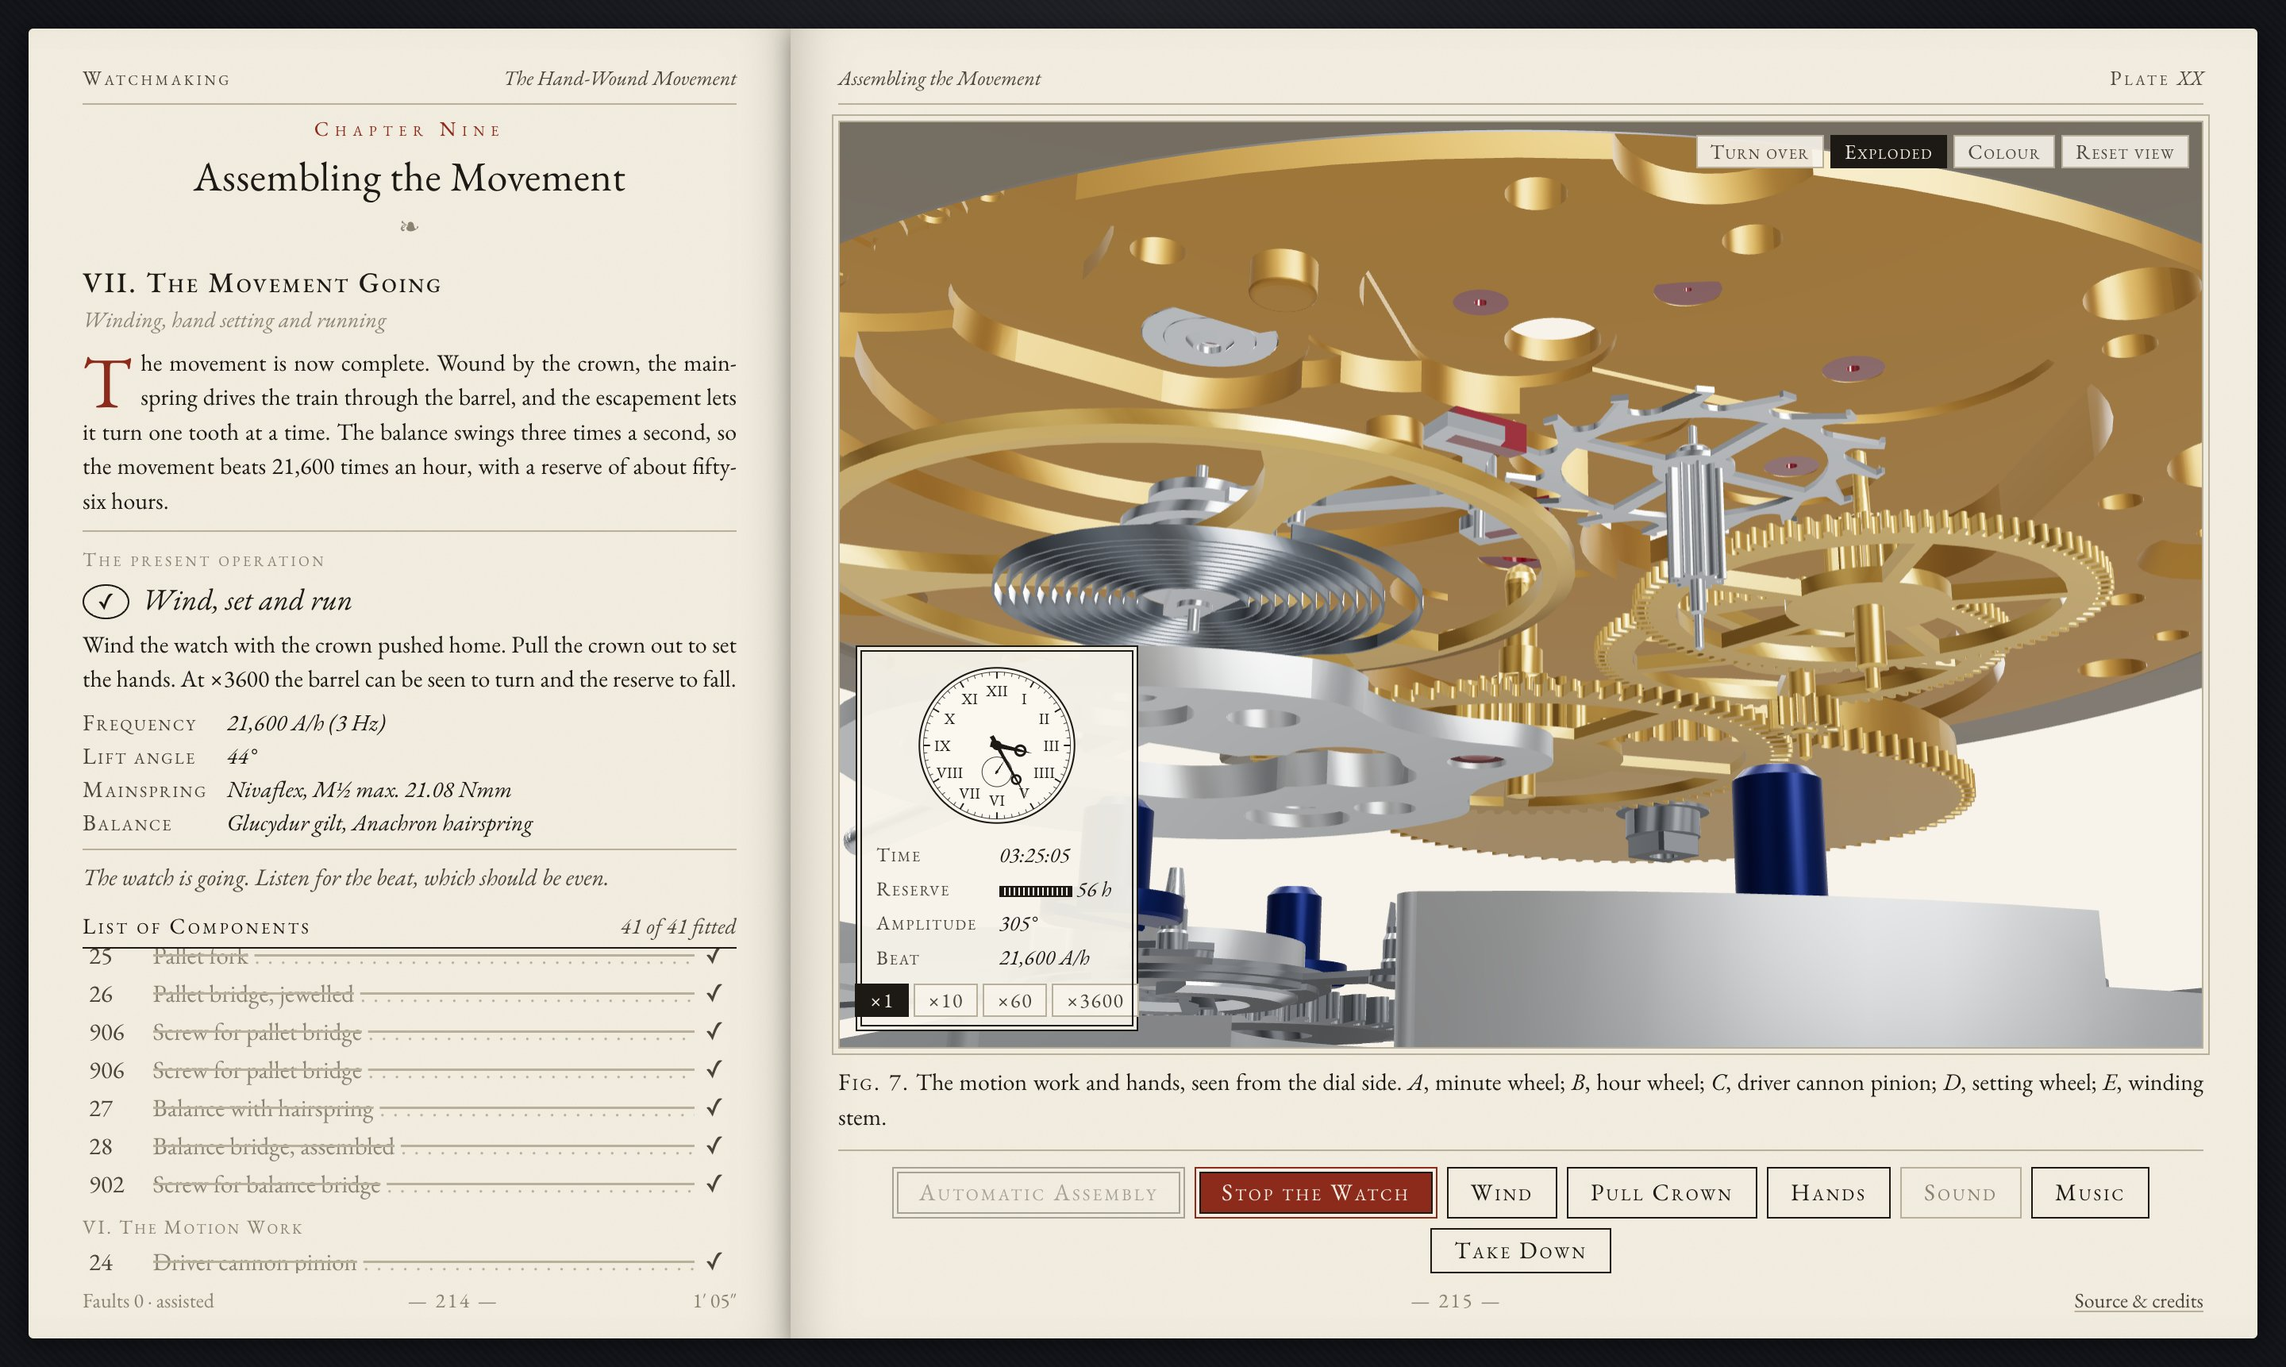
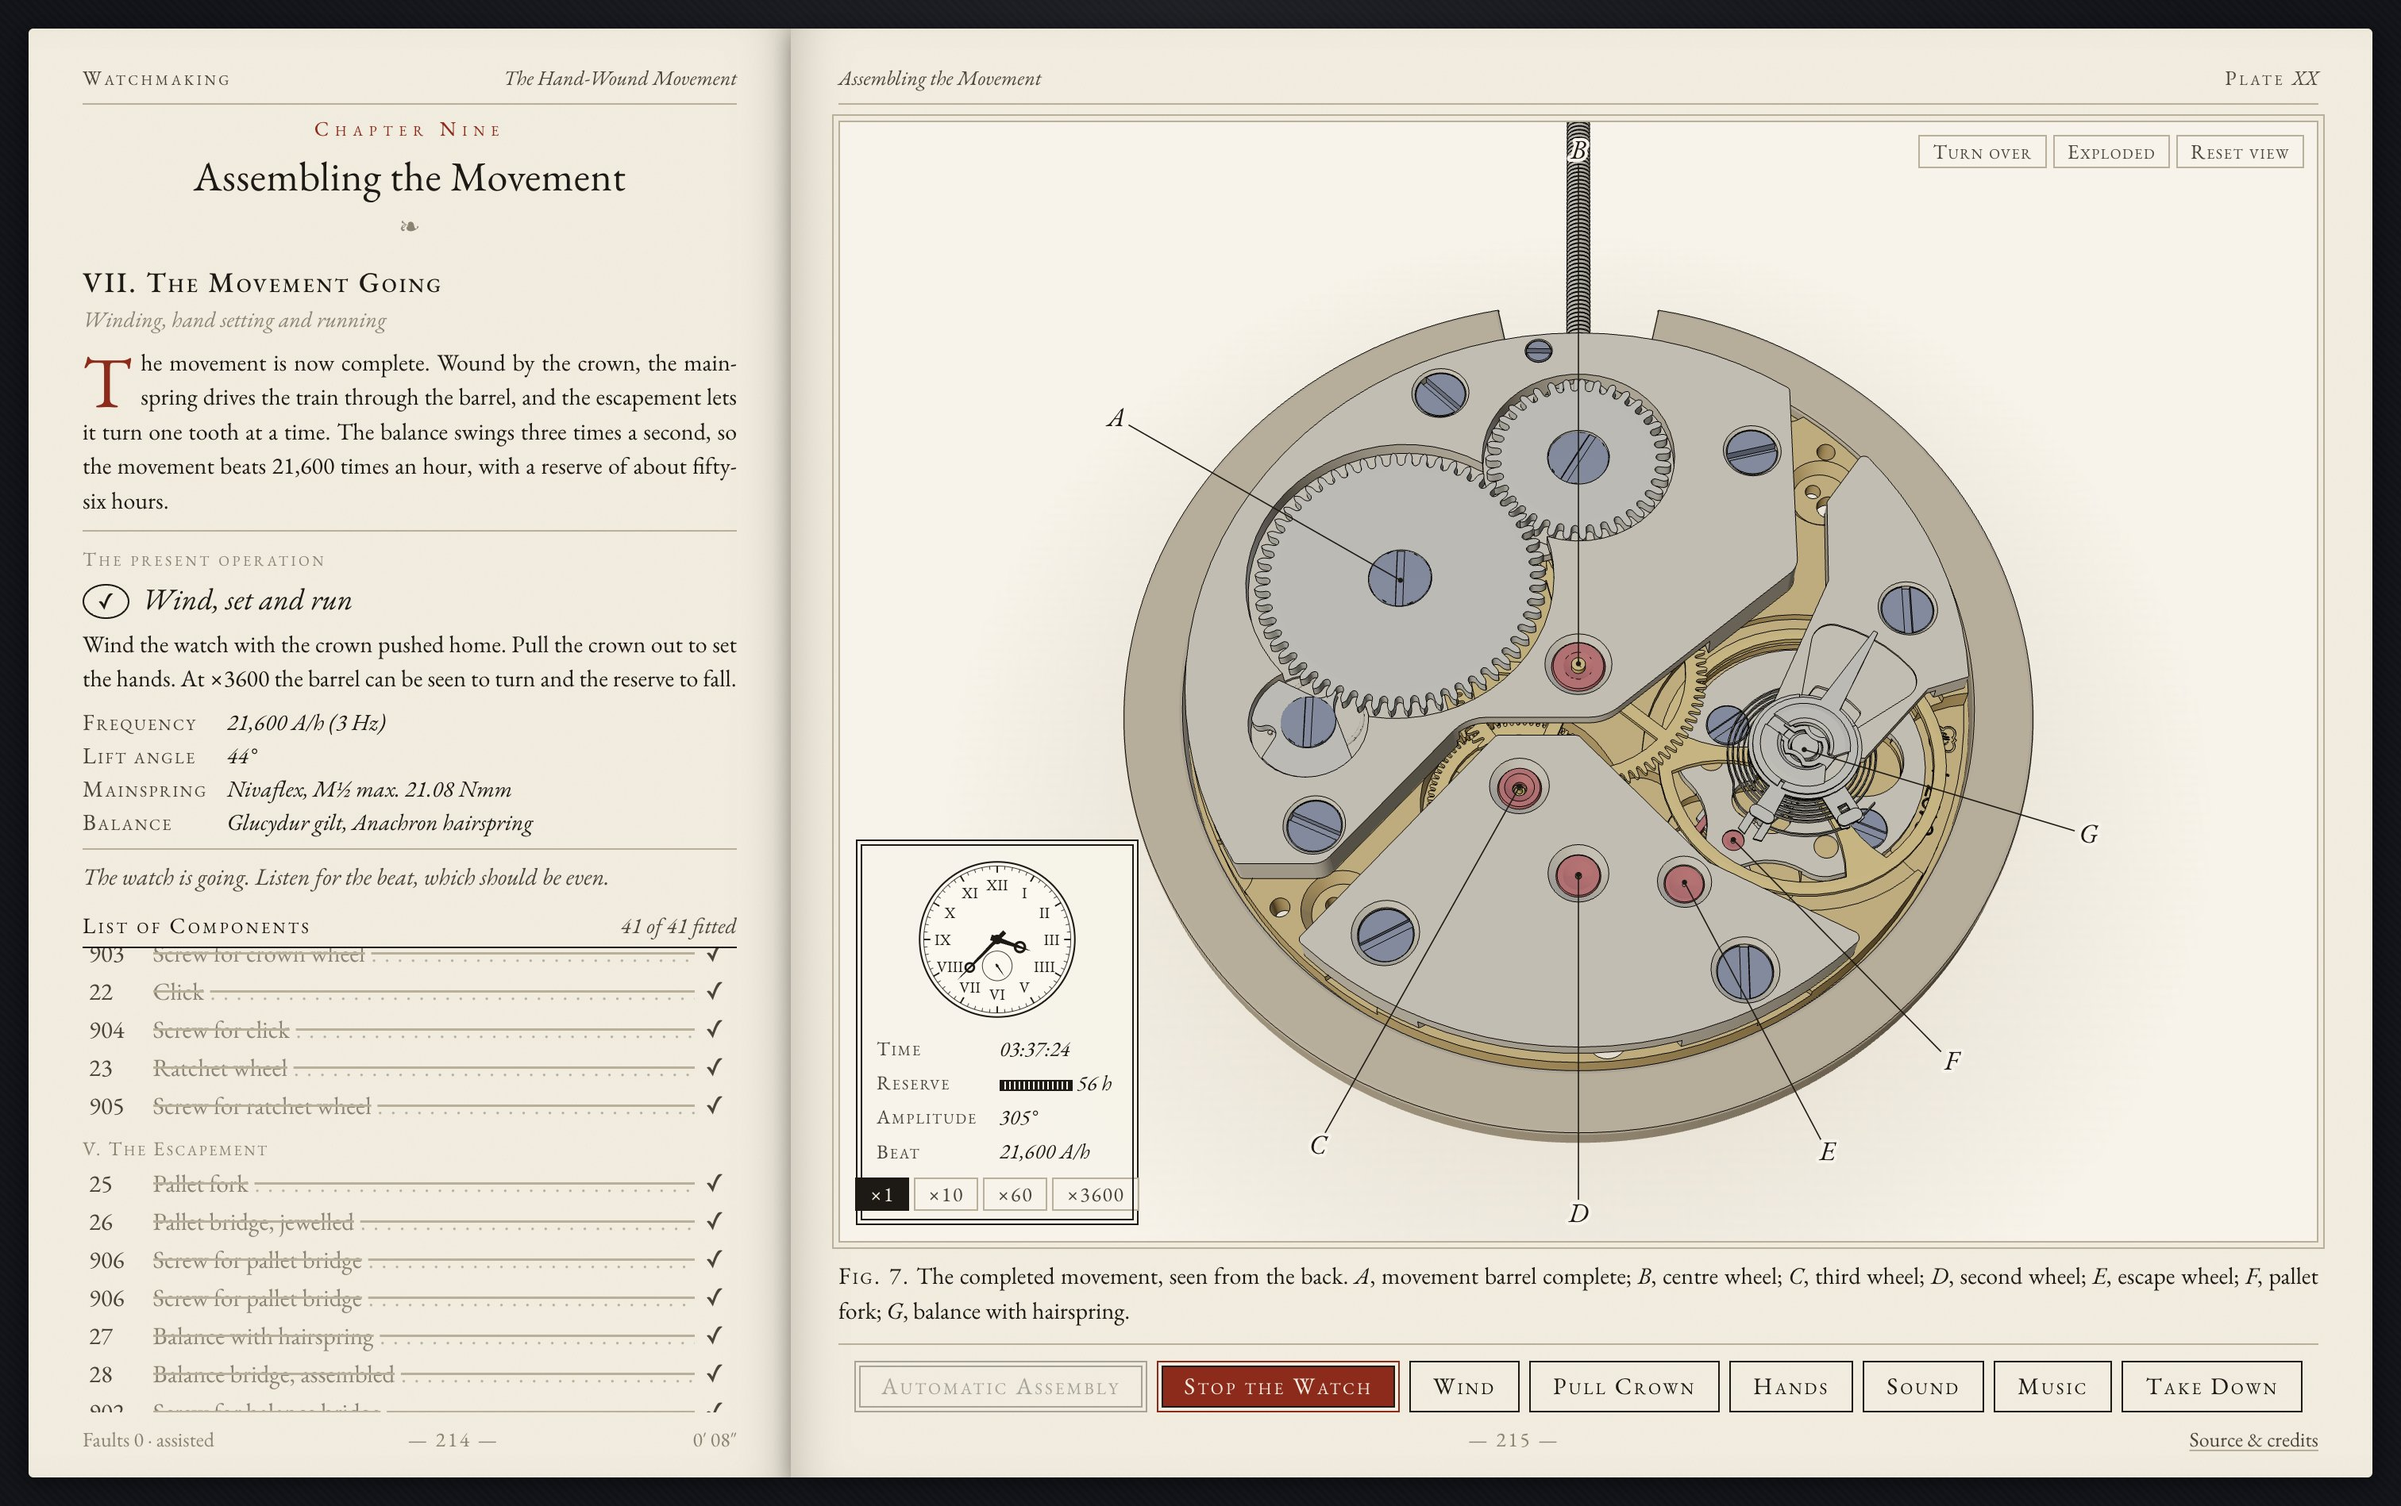
Engraving-only plate with hued washes, layered exploded view, music on by default
- Remove the colour/engraving toggle; every part is drawn in ink line
  over a pale wash of its metal
- Exploded view rises by build layer: wheels above the plate, bridges
  above the wheels, winding wheels and screws above the bridges, hands
  above the motion work
- Music defaults to on and starts on the first click or key press

diff --git a/js/main.js b/js/main.js
@@ -72,9 +72,14 @@ const MAT = {
   ruby: new THREE.MeshPhysicalMaterial({ color: 0x6e0619, metalness: 0.1, roughness: 0.12, clearcoat: 1, clearcoatRoughness: 0.05, envMapIntensity: 0.6 }),
   holder: new THREE.MeshStandardMaterial({ color: 0x8d8579, metalness: 0.6, roughness: 0.55 }),
   ghost: new THREE.MeshBasicMaterial({ color: 0x1d1a15, transparent: true, opacity: 0.16, depthWrite: false }),
-  line: new THREE.MeshLambertMaterial({ color: 0xfbf8f0, polygonOffset: true, polygonOffsetFactor: 1, polygonOffsetUnits: 1 }),
-  linePlate: new THREE.MeshLambertMaterial({ color: 0xdcc9a0, polygonOffset: true, polygonOffsetFactor: 1, polygonOffsetUnits: 1 }),
   edge: new THREE.LineBasicMaterial({ color: 0x1d1a15 }),
+};
+// Engraving fills: a pale wash of each metal, as if hand-tinted over the line work
+const washOf = (hex) => new THREE.MeshLambertMaterial({ color: hex, polygonOffset: true, polygonOffsetFactor: 1, polygonOffsetUnits: 1 });
+const WASH = {
+  plate: washOf(0xe2cc9c), rhodium: washOf(0xe9e8e3), gilt: washOf(0xf1db9f), brass: washOf(0xe6cf98),
+  steel: washOf(0xdfe4e8), darksteel: washOf(0xbfc5cb), blued: washOf(0x9aa7c9), ruby: washOf(0xcf8c97),
+  holder: washOf(0xd6cfc2),
 };
 const PART_MAT = {
   mainplate: 'plate', trainbridge: 'rhodium', barrelbridge: 'rhodium', palletbridge: 'rhodium', balancebridge: 'rhodium',
@@ -140,6 +145,24 @@ function buildGeometry(meta, buf, m) {
   return g;
 }
 
+// Layers of the build, counted outward from the plate on each side
+const EXPLODE_STEP = 5.5;
+const EXPLODE_LAYER = {
+  mainplate: 0,
+  // dial side: keyless work on the plate, then wheels, jumper, screw, motion work
+  settinglever: 1, windingpinion: 1, slidingpinion: 1, stem: 1.2, screwsettinglever: 1,
+  yoke: 2, yokespring: 2.6, settingwheel: 2, intsettingwheel: 2, minutewheel: 2,
+  jumper: 3.2, screwjumper: 4.2, cannonpinion: 2.4, hourwheel: 3.4,
+  // bridge side: wheels on the plate, bridges over the wheels, screws and winding wheels over the bridges
+  escapewheel: 1, thirdwheel: 1, secondwheel: 1, centrewheel: 1, barrel: 1, palletfork: 1, balance: 1,
+  trainbridge: 2, barrelbridge: 2, palletbridge: 2, balancebridge: 2,
+  screwtrain1: 3, screwtrain2: 3, screwbarrel1: 3, screwbarrel2: 3, screwbarrel3: 3,
+  screwpallet1: 3, screwpallet2: 3, screwbalance: 3,
+  crownring: 2.7, crownwheel: 3.2, click: 3.2, ratchet: 3.2,
+  screwcrown: 4.2, screwclick: 4.2, screwratchet: 4.2,
+};
+const HANDS_LAYER = 4.4;
+
 const allMeshes = [holderRing]; // every visible movement mesh, for raycasting and style changes
 const ghostMeshes = [];
 
@@ -155,10 +178,8 @@ function makePart(part, meta, buf) {
   part.approachV = new THREE.Vector3(...part.approach);
   part.lift = part.kind === 'stem' ? 11 : part.kind === 'plate' ? 9 : 5;
   part.offset = new THREE.Vector3();
-  // exploded-view distance along the approach direction
-  const zc = (part.bmin.z + part.bmax.z) / 2;
-  part.explode = part.kind === 'plate' ? 0 : part.kind === 'stem' ? 7
-    : 3 + Math.max(0, part.approachV.z * zc) * 3 + (part.kind === 'screw' ? 7 : part.kind === 'bridge' ? 4 : 0);
+  // exploded view: each part rises by its layer in the build, so it stays above what it is mounted on
+  part.explode = (EXPLODE_LAYER[part.id] ?? 1) * EXPLODE_STEP;
 
   part.holder = new THREE.Group(); part.holder.visible = false; root.add(part.holder);
   part.spin = new THREE.Group(); part.spin.position.copy(part.pivotV); part.holder.add(part.spin);
@@ -213,7 +234,7 @@ PARTS.forEach((p, i) => { p.index = i; });
 const state = {
   next: 0, fitted: new Set(), held: null, busy: false, auto: false,
   faults: 0, startedAt: null, finishedAt: null, assisted: false,
-  side: SIDE.DIAL, explodeE: 0, style: 'colour', showHands: true, sound: true,
+  side: SIDE.DIAL, explodeE: 0, showHands: true, sound: true,
 };
 const complete = () => state.next >= PARTS.length;
 const nextPart = () => PARTS[state.next];
@@ -731,25 +752,14 @@ function renderRate() {
   rot('md-h', (c % 43200) / 43200 * 360); rot('md-m', (c % 3600) / 3600 * 360); rot('md-s', (c % 60) / 60 * 360, 16);
 }
 
-// ───────────────────────── Styles of plate ─────────────────────────
-const STYLES = ['colour', 'line'];
-const STYLE_NAMES = { colour: 'Colour', line: 'Engraving' };
-let edgesBuilt = false;
-function applyStyle() {
-  const s = state.style;
-  if (s === 'line' && !edgesBuilt) {
-    for (const m of allMeshes) {
-      const e = new THREE.LineSegments(new THREE.EdgesGeometry(m.geometry, 32), MAT.edge);
-      e.visible = false; e.userData.isEdge = true; m.add(e); m.userData.edge = e;
-    }
-    edgesBuilt = true;
-  }
+// ───────────────────────── The engraved plate ─────────────────────────
+// Every part is drawn in ink line over a pale wash of its metal.
+function engrave() {
   for (const m of allMeshes) {
-    m.material = s === 'line' ? (m.userData.matKey === 'plate' ? MAT.linePlate : MAT.line) : MAT[m.userData.matKey];
-    if (m.userData.edge) m.userData.edge.visible = s === 'line';
+    m.add(new THREE.LineSegments(new THREE.EdgesGeometry(m.geometry, 32), MAT.edge));
+    m.material = WASH[m.userData.matKey] || WASH.steel;
   }
-  scene.environment = s === 'line' ? null : envMap;
-  $('btn-style').textContent = STYLE_NAMES[s];
+  scene.environment = null;
 }
 
 // ───────────────────────── Completion ─────────────────────────
@@ -841,23 +851,31 @@ $('btn-reset').addEventListener('click', takeDown);
 // Music: Mozart, String Quartet No. 19 in C, K. 465, II. Andante cantabile (Musopen, public domain)
 const music = $('music');
 music.volume = 0.35;
+// On by default. Browsers refuse sound before the first gesture, so if the first attempt is
+// refused the music waits for the visitor's first click or key press.
+let musicWanted = true;
 function setMusic(on) {
+  musicWanted = on;
   $('btn-music').setAttribute('aria-pressed', on);
-  if (on) music.play().catch(() => $('btn-music').setAttribute('aria-pressed', false));
+  if (on) music.play().catch(() => {});
   else music.pause();
 }
-$('btn-music').addEventListener('click', () => setMusic(music.paused));
+function musicOnFirstGesture(e) {
+  if (e.target.closest && e.target.closest('#btn-music')) return; // the toggle decides for itself
+  window.removeEventListener('pointerdown', musicOnFirstGesture, true);
+  window.removeEventListener('keydown', musicOnFirstGesture, true);
+  if (musicWanted && music.paused) music.play().catch(() => {});
+}
+window.addEventListener('pointerdown', musicOnFirstGesture, true);
+window.addEventListener('keydown', musicOnFirstGesture, true);
+$('btn-music').addEventListener('click', (e) => { e.stopPropagation(); setMusic(!musicWanted); });
+setMusic(true);
 $('btn-turn').addEventListener('click', () => { if (!state.busy) turnTo(state.side === SIDE.DIAL ? SIDE.BRIDGE : SIDE.DIAL); });
 $('btn-explode').addEventListener('click', () => {
   const on = $('btn-explode').getAttribute('aria-pressed') !== 'true';
   $('btn-explode').setAttribute('aria-pressed', on);
   const from = state.explodeE;
   tween(0.8, (k) => { state.explodeE = from + ((on ? 1 : 0) - from) * k; });
-});
-$('btn-style').addEventListener('click', () => {
-  state.style = STYLES[(STYLES.indexOf(state.style) + 1) % STYLES.length];
-  if (state.style === 'line' && !edgesBuilt) { $('btn-style').textContent = 'Engraving…'; setTimeout(applyStyle, 30); }
-  else applyStyle();
 });
 $('btn-view').addEventListener('click', () => {
   const from = camera.position.clone(), t0 = controls.target.clone();
@@ -921,6 +939,7 @@ function loop() {
     if (!p.holder) continue;
     p.holder.position.copy(p.offset).addScaledVector(p.approachV, p.explode * state.explodeE);
   }
+  hands.position.z = -HANDS_LAYER * EXPLODE_STEP * state.explodeE;
   applyKinematics();
   ghostT += dt;
   MAT.ghost.opacity = 0.12 + 0.1 * (0.5 + 0.5 * Math.sin(ghostT * 4)) + (nearTarget ? 0.15 : 0);
@@ -941,6 +960,7 @@ async function init() {
       fetchWithProgress('assets/movement.bin', (f) => { $('loading-bar').style.width = `${Math.min(100, f * 100)}%`; }),
     ]);
     for (const p of PARTS) makePart(p, meta, buf);
+    engrave();
   } catch (err) {
     $('loading').querySelector('em').textContent = 'The plate could not be prepared. Serve this folder over HTTP, for example with “npx serve”.';
     console.error(err);

diff --git a/index.html b/index.html
@@ -67,7 +67,6 @@
       <div class="view-tools" role="toolbar" aria-label="View">
         <button id="btn-turn" title="Turn the movement over">Turn over</button>
         <button id="btn-explode" title="Exploded view" aria-pressed="false">Exploded</button>
-        <button id="btn-style" title="Change the plate style">Colour</button>
         <button id="btn-view" title="Reset the view">Reset view</button>
       </div>
 
@@ -97,7 +96,7 @@
       <button id="btn-stem" title="Pull the crown out to set the hands">Pull Crown</button>
       <button id="btn-hands" aria-pressed="true">Hands</button>
       <button id="btn-sound" aria-pressed="true" title="The beat of the escapement">Sound</button>
-      <button id="btn-music" aria-pressed="false" title="Mozart, String Quartet K. 465, Andante cantabile">Music</button>
+      <button id="btn-music" aria-pressed="true" title="Mozart, String Quartet K. 465, Andante cantabile">Music</button>
       <button id="btn-reset">Take Down</button>
     </nav>
     <footer class="folio"><span></span><span class="folio-no">— 215 —</span><a class="folio-link" href="https://github.com/elevenarms/eta-6497-assembly#credits" target="_blank" rel="noopener">Source &amp; credits</a></footer>
@@ -138,7 +137,7 @@
   </div>
 </div>
 
-<audio id="music" src="assets/audio/mozart-k465-andante.m4a" loop preload="none"></audio>
+<audio id="music" src="assets/audio/mozart-k465-andante.m4a" loop preload="auto"></audio>
 <script type="module" src="js/main.js"></script>
 </body>
 </html>

diff --git a/README.md b/README.md
@@ -23,7 +23,8 @@ It must be served over HTTP, because the model is fetched. Three.js 0.170 loads 
 - **Automatic Assembly** builds the movement in the maker's order, and you can pause it to carry on by hand.
 - **Assemble & Run the Watch** assembles whatever is still missing, winds the mainspring and sets the watch going.
 - Once the movement is complete, you can **Wind** it, **Pull Crown** and then **Turn Crown** to set the hands, show or hide the **Hands**, toggle the **Sound** of the beat, and choose a speed of ×1, ×10, ×60 or ×3600.
-- The view tools are **Turn over**, **Exploded**, the plate style (Colour or Engraving) and **Reset view**. **Music** plays a Mozart string quartet movement.
+- The view tools are **Turn over**, **Exploded** and **Reset view**. The movement is drawn as an engraved plate, in ink line over a pale wash of each part's metal: brass plate, rhodium bridges, gilt wheels, steel, blued screws and ruby jewels.
+- **Music** plays a Mozart string quartet movement. It is on by default and starts with your first click.
 
 ## How it is built
 
